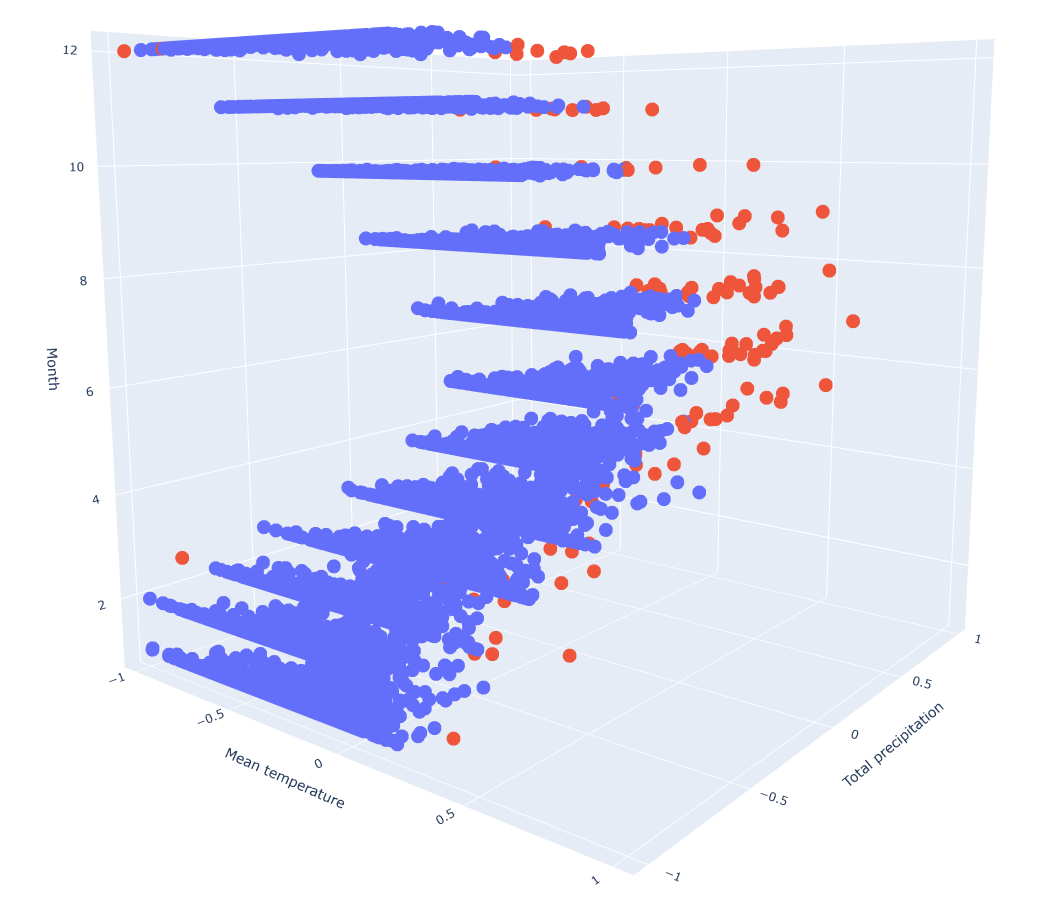
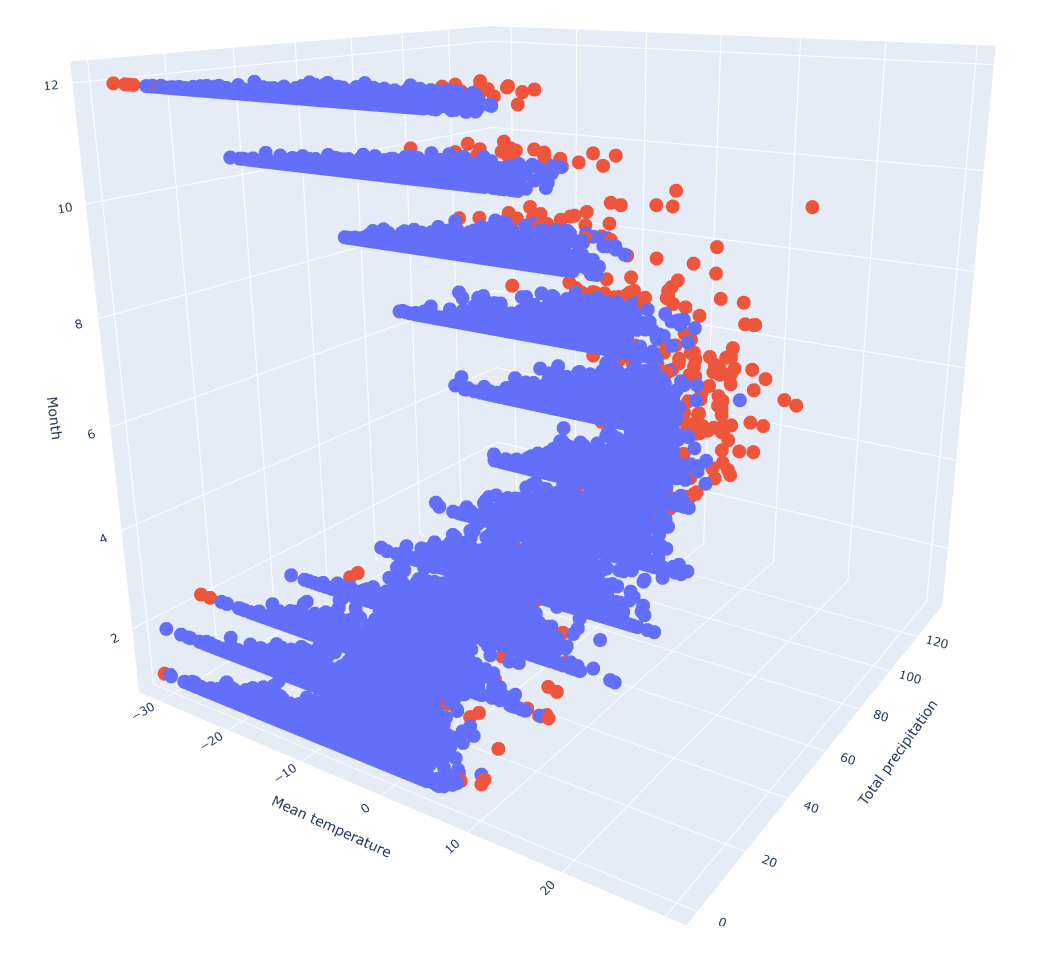
Perform ECOD outlier detection, fix 3D outlier plots to include test set

diff --git a/ScriptsAnomDetect/3.3_AnomDetectECOD.py b/ScriptsAnomDetect/3.3_AnomDetectECOD.py
@@ -1,12 +1,12 @@
-# Canadian weather data - TS anomaly detection with Gaussian Mixture Model
+# Canadian weather data - TS anomaly detection with ECOD model
 # Data source: https://openml.org/search?type=data&status=active&id=43843
 
 exec(open("./ScriptsAnomDetect/1_DataPrep.py").read())
 
 
-from sklearn.preprocessing import MinMaxScaler
-from darts.dataprocessing.transformers.scaler import Scaler
-from pyod.models.gmm import GMM
+# from sklearn.preprocessing import MinMaxScaler
+# from darts.dataprocessing.transformers.scaler import Scaler
+from pyod.models.ecod import ECOD
 from darts.ad.scorers.pyod_scorer import PyODScorer
 from darts.ad.detectors.quantile_detector import QuantileDetector
 
@@ -20,23 +20,18 @@ ts_train = ts_ottawa.drop_after(pd.Timestamp("1980-01-01"))
 ts_test = ts_ottawa.drop_before(pd.Timestamp("1979-12-31"))
 
 
-# Scale series between -1 and 1
-scaler = Scaler(MinMaxScaler(feature_range = (-1, 1)))
-ts_train = scaler.fit_transform(ts_train)
-ts_test = scaler.transform(ts_test)
+# # Scale series between -1 and 1
+# scaler = Scaler(MinMaxScaler(feature_range = (-1, 1)))
+# ts_train = scaler.fit_transform(ts_train)
+# ts_test = scaler.transform(ts_test)
 
 
-# Fit GMM scorer on train set
-model_gmm = GMM(
-  n_components = 4, # N. of Gaussian mixture components
-  n_init = 10, # N. of initializations for expectation maximization
-  contamination = 0.01, # % of expected anomalies in the dataset
-  random_state = 1923
-)
-scorer_gmm = PyODScorer(model = model_gmm, window = 1)
-_ = scorer_gmm.fit(ts_train)
-scores_train = scorer_gmm.score(ts_train)
-scores_test = scorer_gmm.score(ts_test)
+# Fit ECOD scorer on train set
+model_ecod = ECOD(contamination = 0.01)
+scorer_ecod = PyODScorer(model = model_ecod, window = 1)
+_ = scorer_ecod.fit(ts_train)
+scores_train = scorer_ecod.score(ts_train)
+scores_test = scorer_ecod.score(ts_test)
 scores = scores_train.append(scores_test)
 
 
@@ -46,7 +41,7 @@ fig, ax = plt.subplots(3, sharex = True)
 # Anomaly scores
 scores_train.plot(ax = ax[0])
 scores_test.plot(ax = ax[0])
-_ = ax[0].set_title("Anomaly scores, Gaussian Mixture Model")
+_ = ax[0].set_title("Anomaly scores, ECOD Model")
 # _ = ax[0].set_ylim(0)
 
 # MeanTemp
@@ -68,7 +63,7 @@ df_scores = scores_train.pd_dataframe().rename({"0": "Train"}, axis = 1)
 df_scores["Test"] = scores_test.values()[0:-1]
 df_scores = df_scores.melt(var_name = "Set", value_name = "Anomaly scores")
 _ = sns.kdeplot(data = df_scores, x = "Anomaly scores", hue = "Set")
-_ = plt.title("Distributions of GMM anomaly scores")
+_ = plt.title("Distributions of ECOD anomaly scores")
 plt.show()
 plt.close("all")
 
@@ -85,7 +80,7 @@ anoms = anoms_train.append(anoms_test)
 # positive and negative observations
 df_positive = pd.DataFrame({
   "Date": ts_ottawa.time_index,
-  "GMM score": np.where(
+  "ECOD score": np.where(
     anoms.univariate_values() == 1, 
     scores.univariate_values(), np.nan),
   "Mean temperature": np.where(
@@ -99,7 +94,7 @@ df_positive = pd.DataFrame({
 
 df_negative = pd.DataFrame({
   "Date": ts_ottawa.time_index,
-  "GMM score": np.where(
+  "ECOD score": np.where(
     anoms.univariate_values() == 0, 
     scores.univariate_values(), np.nan),
   "Mean temperature": np.where(
@@ -114,10 +109,10 @@ df_negative = pd.DataFrame({
 
 # Plot original series, colored by anomalous & non-anomalous
 fig, ax = plt.subplots(3, sharex = True)
-_ = fig.suptitle("Anomaly detections with 99th percentile GMM scores\nBlue = Anomalous days")
+_ = fig.suptitle("Anomaly detections with 99th percentile ECOD scores\nBlue = Anomalous days")
 
-_ = sns.lineplot(data = df_negative,  x = "Date",  y = "GMM score", ax = ax[0])
-_ = sns.lineplot(data = df_positive,  x = "Date",  y = "GMM score", ax = ax[0])
+_ = sns.lineplot(data = df_negative,  x = "Date",  y = "ECOD score", ax = ax[0])
+_ = sns.lineplot(data = df_positive,  x = "Date",  y = "ECOD score", ax = ax[0])
 
 _ = sns.lineplot(data = df_negative,  x = "Date",  y = "Mean temperature", ax = ax[1])
 _ = sns.lineplot(data = df_positive,  x = "Date",  y = "Mean temperature", ax = ax[1])
@@ -135,7 +130,7 @@ fig = px.scatter_3d(
   y = ts_ottawa['TOTAL_PRECIPITATION_OTTAWA'].univariate_values(),
   z = ts_ottawa.time_index.month,
   color = anoms.univariate_values().astype(str),
-  title = "GMM anomaly labeling",
+  title = "ECOD anomaly labeling",
   labels = {
     "x": "Mean temperature",
     "y": "Total precipitation",
@@ -143,3 +138,18 @@ fig = px.scatter_3d(
     "color": "Anomaly flag"}
 )
 fig.show()
+# ECOD tends to falsely flag very hot and very cold days as anomalies, regardless 
+# of the month. Probably not good for multivariate anomaly detection with interactions.
+# It still finds most precipitation anomalies.
+
+
+# Explaining as single training point's outlier scoring
+idx_max_precip = np.argmax(ts_train['TOTAL_PRECIPITATION_OTTAWA'].univariate_values())
+scorer_ecod.model.explain_outlier(
+  ind = idx_max_precip, # Index of point to explain
+  columns = [1, 2, 3, 4], # Dimensions to explain (variables + month cyclical)
+  feature_names = ["MeanTemp", "TotalPrecip", "MonthSin", "MonthCos"]
+  )
+plt.close("all")
+# Even the highest precipitation training sample was flagged mainly due to its
+# temperature.

diff --git a/ScriptsAnomDetect/3.1_AnomDetectClustering.py b/ScriptsAnomDetect/3.1_AnomDetectClustering.py
@@ -141,11 +141,11 @@ plt.close("all")
 
 # 3D anomalies plot
 fig = px.scatter_3d(
-  x = ts_train['MEAN_TEMPERATURE_OTTAWA'].univariate_values(),
-  y = ts_train['TOTAL_PRECIPITATION_OTTAWA'].univariate_values(),
-  z = ts_train.time_index.month,
-  color = anoms_train.univariate_values().astype(str),
-  title = "K-Means anomaly flags, Ottawa pre-1980",
+  x = ts_ottawa['MEAN_TEMPERATURE_OTTAWA'].univariate_values(),
+  y = ts_ottawa['TOTAL_PRECIPITATION_OTTAWA'].univariate_values(),
+  z = ts_ottawa.time_index.month,
+  color = anoms.univariate_values().astype(str),
+  title = "K-Means anomaly flags",
   labels = {
     "x": "Mean temperature",
     "y": "Total precipitation",
